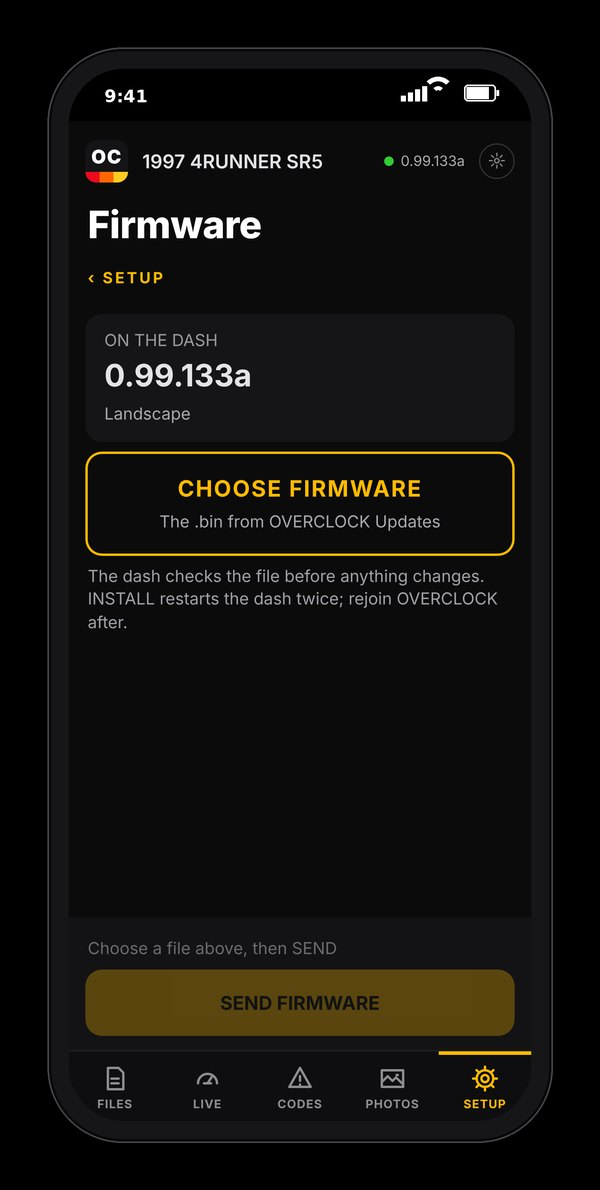
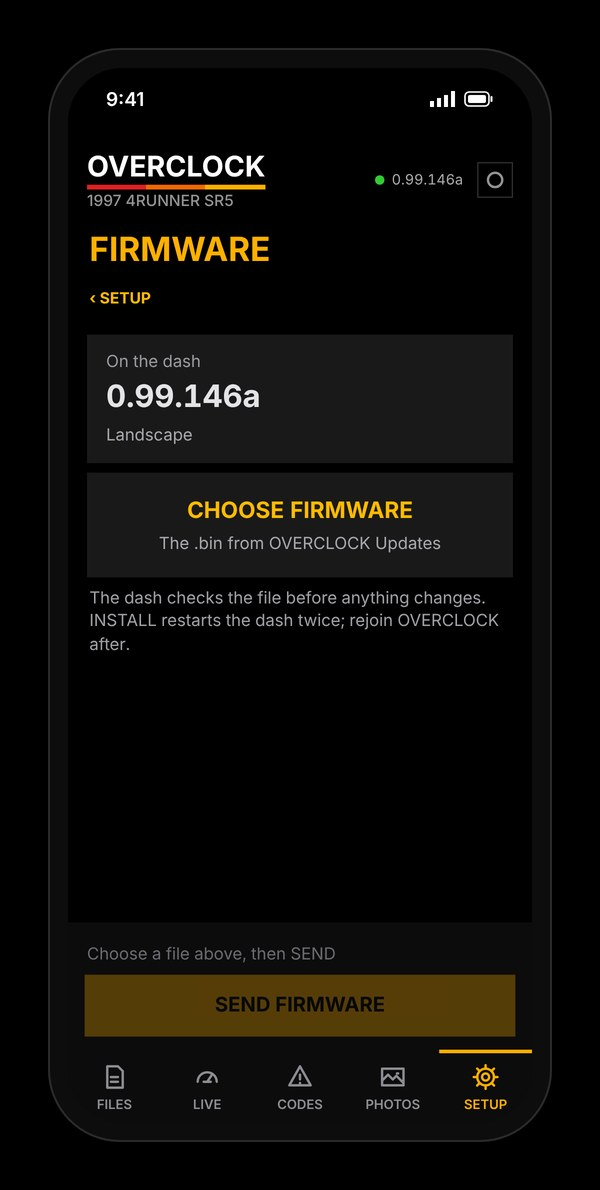
New phone page shots from firmware b9a3cad, add Dates card
Claude-Session: https://claude.ai/code/session_017eW25Lf7iPTSEve8fotwSA

diff --git a/index.html b/index.html
@@ -5,7 +5,7 @@
 <meta name="viewport" content="width=device-width, initial-scale=1, maximum-scale=1, user-scalable=no">
 <title>OVERCLOCK Field Computer: the clock your Toyota should have come with</title>
 <meta name="description" content="OVERCLOCK Field Computer replaces the factory clock in nineties Toyota trucks. Engine codes spelled out, GPS, every drive logged every second, weather, tilt, solar and alerts. Try the real firmware in your browser.">
-<link rel="stylesheet" href="site.css?v=20261102f">
+<link rel="stylesheet" href="site.css?v=20261102g">
 </head>
 <body>
 <a class="skip" href="#main">Skip to content</a>
@@ -268,16 +268,17 @@
     <div class="row-wrap">
       <div class="progress"><i id="phone-progress"></i></div>
       <div class="row phones" id="phones">
-        <div class="moment"><h3>Drives</h3><p>Drives by date.</p><img src="pages/phone/files.jpg" width="600" height="1190" alt="The phone's Drives page: a calendar of logged days" loading="lazy" decoding="async"></div>
-        <div class="moment"><h3>Live</h3><p>Live graphs of any reading.</p><img src="pages/phone/live.jpg" width="600" height="1190" alt="The Live page: rpm, coolant, trims and timing" loading="lazy" decoding="async"></div>
-        <div class="moment"><h3>Codes</h3><p>Codes, explained.</p><img src="pages/phone/codes.jpg" width="600" height="1190" alt="The Codes page with three codes and a freeze frame" loading="lazy" decoding="async"></div>
-        <div class="moment"><h3>Photos</h3><p>Send your own pictures to the clock's slideshow.</p><img src="pages/phone/photos.jpg" width="600" height="1190" alt="The Photos page with pictures on the card" loading="lazy" decoding="async"></div>
-        <div class="moment"><h3>Firmware</h3><p>Pick the file, send, verified before install.</p><img src="pages/phone/firmware.jpg" width="600" height="1190" alt="The Firmware page showing the running version" loading="lazy" decoding="async"></div>
-        <div class="moment"><h3>Setup</h3><p>Networks, solar, batteries, maps and data.</p><img src="pages/phone/setup.jpg" width="600" height="1190" alt="The Setup page" loading="lazy" decoding="async"></div>
-        <div class="moment"><h3>Networks</h3><p>Saved networks.</p><img src="pages/phone/networks.jpg" width="600" height="1190" alt="The Networks page" loading="lazy" decoding="async"></div>
-        <div class="moment"><h3>Solar and batteries</h3><p>Pair controllers, shunts and batteries. Combine into one bank.</p><img src="pages/phone/victron.jpg" width="600" height="1190" alt="The Solar and batteries page" loading="lazy" decoding="async"></div>
-        <div class="moment"><h3>Maps and data</h3><p>Border map and fuel stations.</p><img src="pages/phone/maps_data.jpg" width="600" height="1190" alt="The Maps and data page" loading="lazy" decoding="async"></div>
-        <div class="moment"><h3>Dash log</h3><p>Support log.</p><img src="pages/phone/dash_log.jpg" width="600" height="1190" alt="The Dash log page" loading="lazy" decoding="async"></div>
+        <div class="moment"><h3>Drives</h3><p>Drives by date.</p><img src="pages/phone/files.jpg?v=20261102g" width="600" height="1190" alt="The phone's Drives page: a calendar of logged days" loading="lazy" decoding="async"></div>
+        <div class="moment"><h3>Live</h3><p>Live graphs of any reading.</p><img src="pages/phone/live.jpg?v=20261102g" width="600" height="1190" alt="The Live page: rpm, coolant, trims and timing" loading="lazy" decoding="async"></div>
+        <div class="moment"><h3>Codes</h3><p>Codes, explained.</p><img src="pages/phone/codes.jpg?v=20261102g" width="600" height="1190" alt="The Codes page with three codes and a freeze frame" loading="lazy" decoding="async"></div>
+        <div class="moment"><h3>Photos</h3><p>Send your own pictures to the clock's slideshow.</p><img src="pages/phone/photos.jpg?v=20261102g" width="600" height="1190" alt="The Photos page with pictures on the card" loading="lazy" decoding="async"></div>
+        <div class="moment"><h3>Dates</h3><p>Birthdays, anniversaries and US holidays, on the clock on the day.</p><img src="pages/phone/dates.jpg?v=20261102g" width="600" height="1190" alt="The phone's Dates page: a list of birthdays, anniversaries and holidays" loading="lazy" decoding="async"></div>
+        <div class="moment"><h3>Firmware</h3><p>Pick the file, send, verified before install.</p><img src="pages/phone/firmware.jpg?v=20261102g" width="600" height="1190" alt="The Firmware page showing the running version" loading="lazy" decoding="async"></div>
+        <div class="moment"><h3>Setup</h3><p>Networks, solar, batteries, maps and data.</p><img src="pages/phone/setup.jpg?v=20261102g" width="600" height="1190" alt="The Setup page" loading="lazy" decoding="async"></div>
+        <div class="moment"><h3>Networks</h3><p>Saved networks.</p><img src="pages/phone/networks.jpg?v=20261102g" width="600" height="1190" alt="The Networks page" loading="lazy" decoding="async"></div>
+        <div class="moment"><h3>Solar and batteries</h3><p>Pair controllers, shunts and batteries. Combine into one bank.</p><img src="pages/phone/victron.jpg?v=20261102g" width="600" height="1190" alt="The Solar and batteries page" loading="lazy" decoding="async"></div>
+        <div class="moment"><h3>Maps and data</h3><p>Border map and fuel stations.</p><img src="pages/phone/maps_data.jpg?v=20261102g" width="600" height="1190" alt="The Maps and data page" loading="lazy" decoding="async"></div>
+        <div class="moment"><h3>Dash log</h3><p>Support log.</p><img src="pages/phone/dash_log.jpg?v=20261102g" width="600" height="1190" alt="The Dash log page" loading="lazy" decoding="async"></div>
       </div>
     </div>
     <aside class="soon-note in">
@@ -443,7 +444,7 @@
 document.addEventListener('gesturestart', e => e.preventDefault(), { passive: false });
 document.addEventListener('touchmove', e => { if (e.scale !== undefined && e.scale !== 1) e.preventDefault(); }, { passive: false });
 </script>
-<script src="index.js?v=20261102f"></script>
-<script src="menu.js?v=20261102f"></script>
+<script src="index.js?v=20261102g"></script>
+<script src="menu.js?v=20261102g"></script>
 </body>
 </html>

diff --git a/3d.html b/3d.html
@@ -5,8 +5,8 @@
 <meta name="viewport" content="width=device-width, initial-scale=1, maximum-scale=1, user-scalable=no">
 <title>OVERCLOCK Field Computer in 3D: the 4Runner and Tacoma units and the board</title>
 <meta name="description" content="Turn the OVERCLOCK Field Computer over in 3D: the 4Runner and Tacoma units with the real firmware running on their screens, and the fully custom circuit board with every part labelled.">
-<link rel="stylesheet" href="site.css?v=20261102f">
-<link rel="stylesheet" href="3d.css?v=20261102f">
+<link rel="stylesheet" href="site.css?v=20261102g">
+<link rel="stylesheet" href="3d.css?v=20261102g">
 </head>
 <body class="demo three">
 <a class="skip" href="#main">Skip to content</a>
@@ -50,10 +50,10 @@
 document.addEventListener('gesturestart', e => e.preventDefault(), { passive: false });
 document.addEventListener('touchmove', e => { if (e.scale !== undefined && e.scale !== 1) e.preventDefault(); }, { passive: false });
 </script>
-<script src="overclock.js?v=20261102f"></script>
-<script src="demo_truck.js?v=20261102f"></script>
+<script src="overclock.js?v=20261102g"></script>
+<script src="demo_truck.js?v=20261102g"></script>
 <script type="module">
-import {THREE, OrbitControls, GLTFLoader, MeshoptDecoder, RoomEnvironment} from './lib/three-viewer.js?v=20261102f';   // Three.js 0.169 and its loaders, bundled
+import {THREE, OrbitControls, GLTFLoader, MeshoptDecoder, RoomEnvironment} from './lib/three-viewer.js?v=20261102g';   // Three.js 0.169 and its loaders, bundled
 
 const BASE = '3d/';                 // the models, labels and still screens
 const FW = { base: 'dist/', v: '2026-11-01b' };   // the site's own firmware files
@@ -219,6 +219,6 @@ const start=['4runner','tacoma','board'].includes(location.hash.slice(1))?locati
 addEventListener('hashchange',()=>{const h=location.hash.slice(1); if(['4runner','tacoma','board'].includes(h)&&h!==mode) show(h);});
 show(start);
 </script>
-<script src="menu.js?v=20261102f"></script>
+<script src="menu.js?v=20261102g"></script>
 </body>
 </html>

diff --git a/demo.html b/demo.html
@@ -5,8 +5,8 @@
 <meta name="viewport" content="width=device-width, initial-scale=1, maximum-scale=1, user-scalable=no">
 <title>OVERCLOCK Field Computer demo: the real firmware, every control beside it</title>
 <meta name="description" content="Drive the OVERCLOCK Field Computer's actual firmware in your browser: the knob, the pages, thirteen faults to inject, and a truck to tip while the TILT page follows.">
-<link rel="stylesheet" href="site.css?v=20261102f">
-<link rel="stylesheet" href="demo.css?v=20261102f">
+<link rel="stylesheet" href="site.css?v=20261102g">
+<link rel="stylesheet" href="demo.css?v=20261102g">
 </head>
 <body class="demo">
 <a class="skip" href="#main">Skip to content</a>
@@ -118,9 +118,9 @@
 document.addEventListener('gesturestart', e => e.preventDefault(), { passive: false });
 document.addEventListener('touchmove', e => { if (e.scale !== undefined && e.scale !== 1) e.preventDefault(); }, { passive: false });
 </script>
-<script src="overclock.js?v=20261102f"></script>
-<script src="demo_truck.js?v=20261102f"></script>
-<script src="demo.js?v=20261102f"></script>
-<script src="menu.js?v=20261102f"></script>
+<script src="overclock.js?v=20261102g"></script>
+<script src="demo_truck.js?v=20261102g"></script>
+<script src="demo.js?v=20261102g"></script>
+<script src="menu.js?v=20261102g"></script>
 </body>
 </html>

diff --git a/compare.html b/compare.html
@@ -5,7 +5,7 @@
 <meta name="viewport" content="width=device-width, initial-scale=1, maximum-scale=1, user-scalable=no">
 <title>OVERCLOCK vs ScanGauge: OVERCLOCK Field Computer</title>
 <meta name="description" content="OVERCLOCK Field Computer compared with the ScanGauge 3 and ScanGauge II, feature by feature, from each maker's published details.">
-<link rel="stylesheet" href="site.css?v=20261102f">
+<link rel="stylesheet" href="site.css?v=20261102g">
 <style>
 .cmp-main { max-width: 1100px; }
 .cmp-wrap { overflow-x: auto; margin-top: 28px; -webkit-overflow-scrolling: touch; }
@@ -110,6 +110,6 @@ table.cmp { width: 100%; min-width: 720px; border-collapse: collapse; font-size:
   <p><a href="index.html">Home</a> &middot; <a href="demo.html">Demo</a> &middot; <a href="3d.html">3D</a> &middot; <a href="data.html">Data</a> &middot; <a href="photos.html">Photos</a> &middot; <a href="compare.html">vs ScanGauge</a> &middot; <a href="privacy.html">Privacy</a> &middot; <a href="terms.html">Terms</a> &middot; <a href="licenses.html">Licenses</a> &middot; <a href="regulatory.html">Regulatory</a> &middot; <a href="faq.html">Questions</a> &middot; <a href="power.html">Power</a></p>
   <p>Contains FCC ID: 2AC7Z-ESP32WROOM32E</p>
 </footer>
-<script src="menu.js?v=20261102f"></script>
+<script src="menu.js?v=20261102g"></script>
 </body>
 </html>

diff --git a/faq.html b/faq.html
@@ -5,7 +5,7 @@
 <meta name="viewport" content="width=device-width, initial-scale=1, maximum-scale=1, user-scalable=no">
 <title>Questions: OVERCLOCK Field Computer</title>
 <meta name="description" content="Answers to the most common questions about the OVERCLOCK Field Computer: fitment, the Bluetooth OBD2 dongle, probes, the case, battery draw and more.">
-<link rel="stylesheet" href="site.css?v=20261102f">
+<link rel="stylesheet" href="site.css?v=20261102g">
 </head>
 <body class="doc">
 <a class="skip" href="#main">Skip to content</a>
@@ -103,6 +103,6 @@
   <p><a href="index.html">Home</a> &middot; <a href="demo.html">Demo</a> &middot; <a href="3d.html">3D</a> &middot; <a href="data.html">Data</a> &middot; <a href="photos.html">Photos</a> &middot; <a href="compare.html">vs ScanGauge</a> &middot; <a href="privacy.html">Privacy</a> &middot; <a href="terms.html">Terms</a> &middot; <a href="licenses.html">Licenses</a> &middot; <a href="regulatory.html">Regulatory</a> &middot; <a href="faq.html">Questions</a> &middot; <a href="power.html">Power</a></p>
   <p>Contains FCC ID: 2AC7Z-ESP32WROOM32E</p>
 </footer>
-<script src="menu.js?v=20261102f"></script>
+<script src="menu.js?v=20261102g"></script>
 </body>
 </html>

diff --git a/senders.html b/senders.html
@@ -5,7 +5,7 @@
 <meta name="viewport" content="width=device-width, initial-scale=1, maximum-scale=1, user-scalable=no">
 <title>Sender support: OVERCLOCK Field Computer</title>
 <meta name="description" content="The temperature probes, transmission temperature senders and oil or fuel pressure senders the OVERCLOCK Field Computer supports today.">
-<link rel="stylesheet" href="site.css?v=20261102f">
+<link rel="stylesheet" href="site.css?v=20261102g">
 </head>
 <body class="doc">
 <a class="skip" href="#main">Skip to content</a>
@@ -48,6 +48,6 @@
   <p><a href="index.html">Home</a> &middot; <a href="demo.html">Demo</a> &middot; <a href="3d.html">3D</a> &middot; <a href="data.html">Data</a> &middot; <a href="photos.html">Photos</a> &middot; <a href="compare.html">vs ScanGauge</a> &middot; <a href="privacy.html">Privacy</a> &middot; <a href="terms.html">Terms</a> &middot; <a href="licenses.html">Licenses</a> &middot; <a href="regulatory.html">Regulatory</a> &middot; <a href="faq.html">Questions</a> &middot; <a href="power.html">Power</a></p>
   <p>Contains FCC ID: 2AC7Z-ESP32WROOM32E</p>
 </footer>
-<script src="menu.js?v=20261102f"></script>
+<script src="menu.js?v=20261102g"></script>
 </body>
 </html>

diff --git a/power.html b/power.html
@@ -5,7 +5,7 @@
 <meta name="viewport" content="width=device-width, initial-scale=1, maximum-scale=1, user-scalable=no">
 <title>Power and your battery: OVERCLOCK Field Computer</title>
 <meta name="description" content="How much power the OVERCLOCK Field Computer draws driving, at key-off and parked, and how it protects your battery.">
-<link rel="stylesheet" href="site.css?v=20261102f">
+<link rel="stylesheet" href="site.css?v=20261102g">
 </head>
 <body class="doc">
 <a class="skip" href="#main">Skip to content</a>
@@ -50,6 +50,6 @@
   <p><a href="index.html">Home</a> &middot; <a href="demo.html">Demo</a> &middot; <a href="3d.html">3D</a> &middot; <a href="data.html">Data</a> &middot; <a href="photos.html">Photos</a> &middot; <a href="compare.html">vs ScanGauge</a> &middot; <a href="privacy.html">Privacy</a> &middot; <a href="terms.html">Terms</a> &middot; <a href="licenses.html">Licenses</a> &middot; <a href="regulatory.html">Regulatory</a> &middot; <a href="faq.html">Questions</a> &middot; <a href="power.html">Power</a></p>
   <p>Contains FCC ID: 2AC7Z-ESP32WROOM32E</p>
 </footer>
-<script src="menu.js?v=20261102f"></script>
+<script src="menu.js?v=20261102g"></script>
 </body>
 </html>

diff --git a/regulatory.html b/regulatory.html
@@ -5,7 +5,7 @@
 <meta name="viewport" content="width=device-width, initial-scale=1, maximum-scale=1, user-scalable=no">
 <title>Regulatory Information: OVERCLOCK Field Computer</title>
 <meta name="description" content="Regulatory information for the OVERCLOCK Field Computer, including the FCC ID of the radio module inside it.">
-<link rel="stylesheet" href="site.css?v=20261102f">
+<link rel="stylesheet" href="site.css?v=20261102g">
 </head>
 <body class="doc">
 <a class="skip" href="#main">Skip to content</a>
@@ -27,6 +27,6 @@
   <p><a href="index.html">Home</a> &middot; <a href="demo.html">Demo</a> &middot; <a href="3d.html">3D</a> &middot; <a href="data.html">Data</a> &middot; <a href="photos.html">Photos</a> &middot; <a href="compare.html">vs ScanGauge</a> &middot; <a href="privacy.html">Privacy</a> &middot; <a href="terms.html">Terms</a> &middot; <a href="licenses.html">Licenses</a> &middot; <a href="regulatory.html">Regulatory</a> &middot; <a href="faq.html">Questions</a> &middot; <a href="power.html">Power</a></p>
   <p>Contains FCC ID: 2AC7Z-ESP32WROOM32E</p>
 </footer>
-<script src="menu.js?v=20261102f"></script>
+<script src="menu.js?v=20261102g"></script>
 </body>
 </html>

diff --git a/terms.html b/terms.html
@@ -5,7 +5,7 @@
 <meta name="viewport" content="width=device-width, initial-scale=1, maximum-scale=1, user-scalable=no">
 <title>Terms of use: OVERCLOCK Field Computer</title>
 <meta name="description" content="Plain terms for using overclockdash.com and the OVERCLOCK Field Computer, with trademark and copyright notes.">
-<link rel="stylesheet" href="site.css?v=20261102f">
+<link rel="stylesheet" href="site.css?v=20261102g">
 </head>
 <body class="doc">
 <a class="skip" href="#main">Skip to content</a>
@@ -40,6 +40,6 @@
   <p><a href="index.html">Home</a> &middot; <a href="demo.html">Demo</a> &middot; <a href="3d.html">3D</a> &middot; <a href="data.html">Data</a> &middot; <a href="photos.html">Photos</a> &middot; <a href="compare.html">vs ScanGauge</a> &middot; <a href="privacy.html">Privacy</a> &middot; <a href="terms.html">Terms</a> &middot; <a href="licenses.html">Licenses</a> &middot; <a href="regulatory.html">Regulatory</a> &middot; <a href="faq.html">Questions</a> &middot; <a href="power.html">Power</a></p>
   <p>Contains FCC ID: 2AC7Z-ESP32WROOM32E</p>
 </footer>
-<script src="menu.js?v=20261102f"></script>
+<script src="menu.js?v=20261102g"></script>
 </body>
 </html>

diff --git a/licenses.html b/licenses.html
@@ -5,7 +5,7 @@
 <meta name="viewport" content="width=device-width, initial-scale=1, maximum-scale=1, user-scalable=no">
 <title>Licenses and credits: OVERCLOCK Field Computer</title>
 <meta name="description" content="Open-source software used on overclockdash.com and inside the browser demo.">
-<link rel="stylesheet" href="site.css?v=20261102f">
+<link rel="stylesheet" href="site.css?v=20261102g">
 </head>
 <body class="doc">
 <a class="skip" href="#main">Skip to content</a>
@@ -53,6 +53,6 @@
   <p><a href="index.html">Home</a> &middot; <a href="demo.html">Demo</a> &middot; <a href="3d.html">3D</a> &middot; <a href="data.html">Data</a> &middot; <a href="photos.html">Photos</a> &middot; <a href="compare.html">vs ScanGauge</a> &middot; <a href="privacy.html">Privacy</a> &middot; <a href="terms.html">Terms</a> &middot; <a href="licenses.html">Licenses</a> &middot; <a href="regulatory.html">Regulatory</a> &middot; <a href="faq.html">Questions</a> &middot; <a href="power.html">Power</a></p>
   <p>Contains FCC ID: 2AC7Z-ESP32WROOM32E</p>
 </footer>
-<script src="menu.js?v=20261102f"></script>
+<script src="menu.js?v=20261102g"></script>
 </body>
 </html>

diff --git a/privacy.html b/privacy.html
@@ -5,7 +5,7 @@
 <meta name="viewport" content="width=device-width, initial-scale=1, maximum-scale=1, user-scalable=no">
 <title>Privacy: OVERCLOCK Field Computer</title>
 <meta name="description" content="What overclockdash.com collects (almost nothing) and what happens to a note you send us.">
-<link rel="stylesheet" href="site.css?v=20261102f">
+<link rel="stylesheet" href="site.css?v=20261102g">
 </head>
 <body class="doc">
 <a class="skip" href="#main">Skip to content</a>
@@ -36,6 +36,6 @@
   <p><a href="index.html">Home</a> &middot; <a href="demo.html">Demo</a> &middot; <a href="3d.html">3D</a> &middot; <a href="data.html">Data</a> &middot; <a href="photos.html">Photos</a> &middot; <a href="compare.html">vs ScanGauge</a> &middot; <a href="privacy.html">Privacy</a> &middot; <a href="terms.html">Terms</a> &middot; <a href="licenses.html">Licenses</a> &middot; <a href="regulatory.html">Regulatory</a> &middot; <a href="faq.html">Questions</a> &middot; <a href="power.html">Power</a></p>
   <p>Contains FCC ID: 2AC7Z-ESP32WROOM32E</p>
 </footer>
-<script src="menu.js?v=20261102f"></script>
+<script src="menu.js?v=20261102g"></script>
 </body>
 </html>

diff --git a/data.html b/data.html
@@ -5,7 +5,7 @@
 <meta name="viewport" content="width=device-width, initial-scale=1">
 <title>Real data: OVERCLOCK Field Computer</title>
 <meta name="description" content="Real OVERCLOCK Field Computer logs: every second of every drive, every start, every fill-up.">
-<link rel="stylesheet" href="site.css?v=20261102f">
+<link rel="stylesheet" href="site.css?v=20261102g">
 <style>
 .dv { --c1:#3987e5; --c2:#d95926; --c3:#199e70; --c4:#c98500; --one:#ffb000;
       --grid:#232323; --axis:#3a3a3a; --tick:#8f877c; }
@@ -444,6 +444,6 @@ function first(){ if(once) return; once=true; all(); ['t-warm','t-batt','t-fuel'
 let rt; let lastW=innerWidth; addEventListener('resize',()=>{ if(innerWidth===lastW) return; lastW=innerWidth; clearTimeout(rt); rt=setTimeout(()=>{ ['t-warm','t-batt','t-fuel','t-acc'].forEach(id=>{ const t=$(id).querySelector('table'); if(t) t.remove(); }); all(); },150); });
 })();
 </script>
-<script src="menu.js?v=20261102f"></script>
+<script src="menu.js?v=20261102g"></script>
 </body>
 </html>
